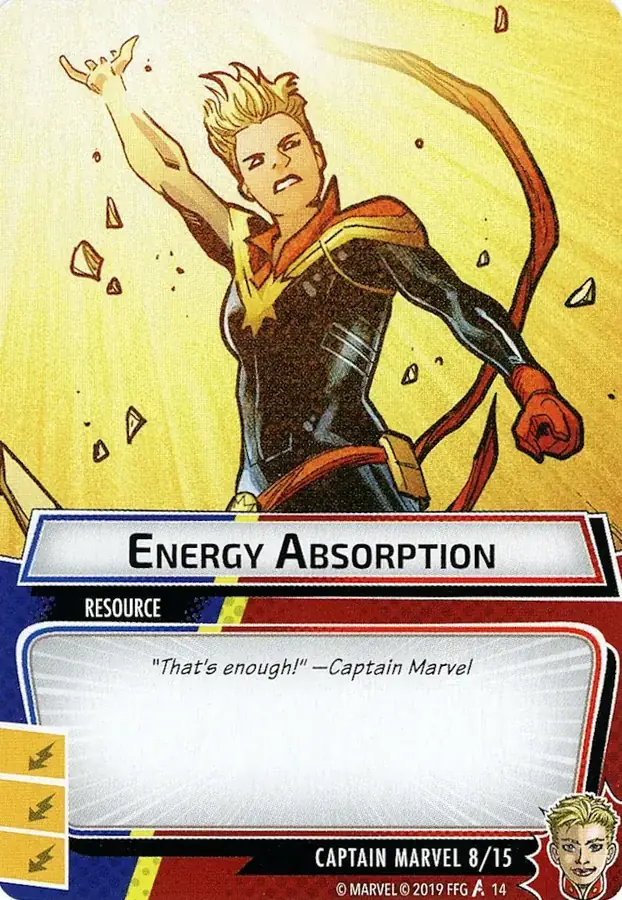
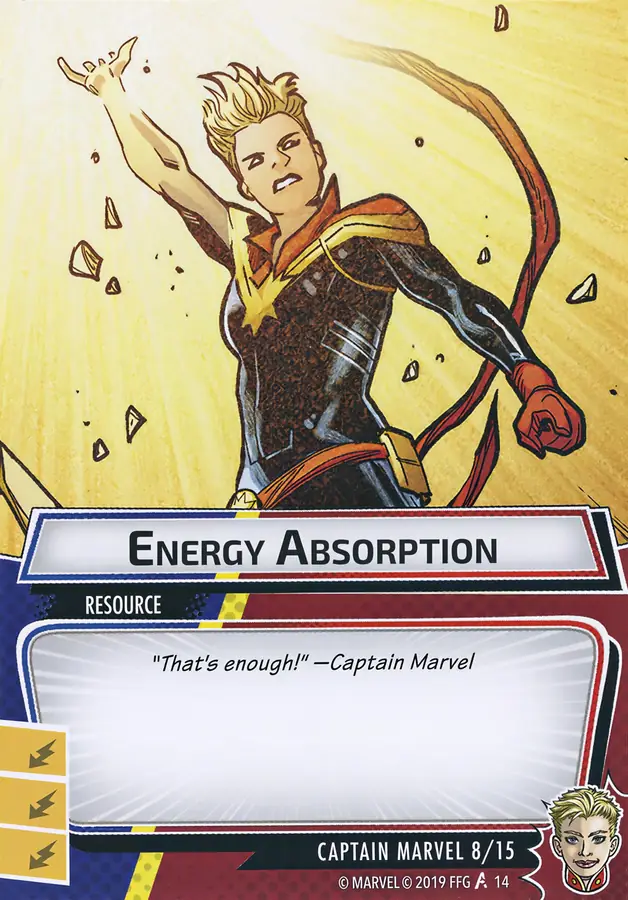
Use the owner's own scans for Spider-Man's and Captain Marvel's core cards (#485) (#487)
All 30 cards of both heroes' core decks and nemesis sets now use Quin's fresh scans: matched to their card by art (one batch labels Photonic Blast as Energy Channel), side schemes turned to landscape, scaled to 900px and saved as WebP under the same paths. The scans are cut to the card edge already, so nothing is cropped.

scripts/fetch_card_art.py gains a reusable `scans` command for the rest of the core set: art matching against the existing scans with the file name as a cross-check, scanner-bed white cleared only where it is a wedge in a corner, a before/after sheet, and assets/card-art/owner-scans.tsv so `fetch` and `trim` never replace or crop an owner scan.

diff --git a/scripts/fetch_card_art.py b/scripts/fetch_card_art.py
@@ -13,7 +13,7 @@
 Card art upgrader: replaces scans in assets/card-art/bundles/cards/ with better
 copies from Hall of Heroes (hallofheroeslcg.com).
 
-Six commands:
+Seven commands:
 
   audit   Score every local scan for the Fantasy Flight Games diamond watermark
           (the "FF stamp" on the preview images some sets were first scanned
@@ -109,6 +109,20 @@ Six commands:
           no padding to remove. A second run downloads only what is new;
           `--refresh` downloads everything again.
 
+  scans   (`uv run scripts/fetch_card_art.py scans <folder>... --packs core`)
+          Replaces local scans with the owner's own scans (TIFF from the
+          scanner, or any image). Each scan is matched to a card by its art
+          against the existing local scans of `--packs`, not by its file name,
+          which can be wrong; a name that disagrees is reported. A sideways
+          card scanned upright is turned to its local scan's orientation, white
+          scanner bed at a corner is made transparent (nothing else is cropped:
+          the scans are cut to the card edge already), and the result is scaled
+          and encoded as `compress` does. Copies of one card save the closest
+          match. `--sheet` writes a before/after contact sheet for the PR.
+          Each saved card is listed in assets/card-art/owner-scans.tsv, which
+          `fetch` and `trim` then leave alone, and loses its Hall of Heroes
+          manifest row. Offline.
+
 A replacement or an addition keeps the exact local path a card record names
 (`/bundles/cards/<code>.png` or `.jpg`), since that is what `imageRef()` points
 at. Each one is recorded in assets/card-art/hall-of-heroes-manifest.tsv.
@@ -125,6 +139,7 @@ at. Each one is recorded in assets/card-art/hall-of-heroes-manifest.tsv.
   uv run scripts/fetch_card_art.py missing --dry-run -v
   uv run scripts/fetch_card_art.py compress --dry-run
   uv run scripts/fetch_card_art.py localize --lang es --dry-run
+  uv run scripts/fetch_card_art.py scans "~/Scans/3. Spider Man" --packs core --recursive --dry-run
 """
 
 from __future__ import annotations
@@ -152,6 +167,7 @@ from scipy.optimize import linear_sum_assignment
 REPO_ROOT = Path(__file__).resolve().parent.parent
 CARDS_DIR = REPO_ROOT / "assets" / "card-art" / "bundles" / "cards"
 MANIFEST = REPO_ROOT / "assets" / "card-art" / "hall-of-heroes-manifest.tsv"
+OWNER_SCANS = REPO_ROOT / "assets" / "card-art" / "owner-scans.tsv"
 RAW_DIR = REPO_ROOT / "packages" / "content" / "raw" / "marvelcdb"
 TEMPLATE_DIR = Path(__file__).resolve().parent / "card-art"
 
@@ -480,6 +496,18 @@ def self_test() -> None:
     holed = np.array(trim(card(False))[0])
     holed[300:380, 100:300, 3] = 0
     assert interior_transparency(Image.fromarray(holed, "RGBA")) > INTERIOR_MAX, "interior hole not detected"
+
+    # An owner scan: scanner bed in the top-left corner, a white wall running into the top-right one.
+    scan = Image.new("RGB", (500, 700), (120, 30, 40))
+    d = ImageDraw.Draw(scan)
+    d.polygon([(0, 0), (12, 0), (0, 12)], fill=(252, 252, 252))
+    d.rectangle((420, 0, 499, 200), fill=(250, 250, 250))
+    cleared, n = clear_white_corners(scan)
+    a = np.asarray(cleared)[..., 3]
+    assert n and a[0, 0] == 0 and a[20, 20] == 255, "scanner bed in a corner not cleared"
+    assert a[0, -1] == 255 and a[5, -5] == 255, "white art reaching a corner was cleared"
+    cream = Image.new("RGB", (500, 700), (230, 228, 215))
+    assert clear_white_corners(cream)[1] == 0, "cream paper taken for scanner bed"
     print("self-test passed")
 
 
@@ -863,6 +891,27 @@ def read_manifest() -> tuple[list[str], dict[str, list[str]]]:
     return header, rows
 
 
+def read_owner_scans() -> dict[str, list[str]]:
+    """The cards whose local scan is the owner's own (`scans`), by code. `fetch` and `trim` leave these alone."""
+    rows = {}
+    if OWNER_SCANS.exists():
+        for line in OWNER_SCANS.read_text(encoding="utf-8").splitlines():
+            if line.strip() and not line.startswith("#") and not line.startswith("code\t"):
+                cols = line.split("\t")
+                rows[cols[0]] = cols
+    return rows
+
+
+def write_owner_scans(rows: dict[str, list[str]]) -> None:
+    lines = [
+        "# Cards whose bundled scan is the owner's own, saved by `scripts/fetch_card_art.py scans`. `fetch` never",
+        "# replaces these with a Hall of Heroes copy, and `trim` never crops them (they are cut to the card edge).",
+        "code\tpack\tname\tscan\tsaved",
+    ]
+    lines += ["\t".join(rows[code]) for code in sorted(rows)]
+    OWNER_SCANS.write_text("\n".join(lines) + "\n", encoding="utf-8", newline="\n")
+
+
 def write_manifest(rows: dict[str, list[str]]) -> None:
     lines = [
         "# Card images fetched from Hall of Heroes (hallofheroeslcg.com) by scripts/fetch_card_art.py: scans MarvelCDB",
@@ -875,7 +924,7 @@ def write_manifest(rows: dict[str, list[str]]) -> None:
     for code in sorted(rows):
         cols = rows[code] + [""] * (6 - len(rows[code]))
         lines.append("\t".join(cols[:6]))
-    MANIFEST.write_text("\n".join(lines) + "\n", encoding="utf-8")
+    MANIFEST.write_text("\n".join(lines) + "\n", encoding="utf-8", newline="\n")
 
 
 # --------------------------------------------------------------------------- commands
@@ -944,7 +993,11 @@ def fetch(args: argparse.Namespace) -> None:
                     small_codes.add(code)
         print(f"    {len(small_codes)} local scans with a long edge of {args.max_local_edge}px or less")
 
+    owner = read_owner_scans()
+
     def targeted(code: str) -> bool:
+        if code in owner:
+            return False
         if args.stamped_only and code not in stamped_codes:
             return False
         return small_codes is None or code in small_codes
@@ -1281,7 +1334,10 @@ def _fetch_one(
 def trim_local(args: argparse.Namespace) -> None:
     """Crops white padding off the local scans in place (the photographed ones carry it)."""
     changed = 0
+    owner = read_owner_scans()
     for code, path in local_scans().items():
+        if code in owner:
+            continue
         with Image.open(path) as img:
             img.load()
         trimmed = trim(img)
@@ -1338,6 +1394,216 @@ def compress(args: argparse.Namespace) -> None:
                 path.write_bytes(webp)
     verb = "would be " if args.dry_run else ""
     print(f"\n[=] {converted} scans {verb}converted: {before / 1e6:.1f} MB -> {after / 1e6:.1f} MB")
+
+
+# --------------------------------------------------------------------------- owner scans
+
+SCAN_SUFFIXES = (".tif", ".tiff", ".png", ".jpg", ".jpeg", ".webp")
+# A white speck at a scan's corner is the scanner bed showing past the card's rounded edge; only light pixels joined to
+# the corner inside a square of this fraction of the short side are cleared, so white art near a corner is untouched.
+SCAN_CORNER = 0.06
+# Scanner-bed white is brighter and more neutral than any printed white: the card's cream paper, a pale sky, measure
+# 215-235 on their darkest channel on the owner's scans, the bed 245 and up. `PAD_WHITE` (web images) would take both.
+SCAN_WHITE = 245
+
+
+def flat_grey(img: Image.Image) -> Image.Image:
+    """`img` on mid grey, so a trimmed scan's transparent corners hash the same whatever RGB they happen to hold."""
+    if "A" not in img.getbands():
+        return img.convert("RGB")
+    base = Image.new("RGB", img.size, (128, 128, 128))
+    base.paste(img.convert("RGBA"), mask=img.convert("RGBA").getchannel("A"))
+    return base
+
+
+def scan_name(path: Path) -> str:
+    """The card name in an owner scan's file name, `<n>_<Name>_<Type>[_A|_B].tif` (`_s` stands for `'s`)."""
+    parts = path.stem.split("_")
+    if len(parts) >= 3 and parts[0].isdigit():
+        parts = parts[1:-1]
+        if parts and parts[-1].lower() in ("hero", "alter-ego", "a", "b"):
+            parts = parts[:-1]
+    return "_".join(parts).replace("_s", "s").replace("_", " ")
+
+
+def names_agree(a: str, b: str) -> bool:
+    """Whether a scan's file name names card `b`: one contains the other (`Absorption`), or a typo away (`Tracker`)."""
+    from difflib import SequenceMatcher
+
+    norm = lambda s: re.sub(r"[^a-z0-9]", "", s.lower())  # noqa: E731
+    a, b = norm(a), norm(b)
+    return bool(a and b) and (a in b or b in a or SequenceMatcher(None, a, b).ratio() >= 0.9)
+
+
+def clear_white_corners(img: Image.Image) -> tuple[Image.Image, int]:
+    """
+    Makes the scanner-bed white at a scan's four corners transparent: light pixels flood-filled from each corner pixel,
+    within a corner square only (`SCAN_CORNER`) and only where they stay a wedge in that corner, grown by one pixel to
+    take the light fringe with them. Returns the
+    image (RGBA when anything was cleared, otherwise unchanged) and the number of pixels cleared.
+    """
+    rgb = np.asarray(img.convert("RGB")).astype(np.int16)
+    h, w = rgb.shape[:2]
+    k = max(4, round(SCAN_CORNER * min(h, w)))
+    light = (rgb.min(axis=2) >= SCAN_WHITE) & (np.ptp(rgb, axis=2) <= 12)
+    clear = np.zeros((h, w), bool)
+    for ys, xs, (cy, cx) in (
+        (slice(0, k), slice(0, k), (0, 0)),
+        (slice(0, k), slice(w - k, w), (0, k - 1)),
+        (slice(h - k, h), slice(0, k), (k - 1, 0)),
+        (slice(h - k, h), slice(w - k, w), (k - 1, k - 1)),
+    ):
+        square = light[ys, xs]
+        if not square[cy, cx]:
+            continue
+        labels, _ = ndimage.label(square)
+        corner = labels == labels[cy, cx]
+        # Scanner bed past a rounded corner is a small wedge in the corner. Light art that reaches the corner (a white
+        # wall, a pale sky) runs on across the square to its far side, and is left alone.
+        if corner[k - 1 - cy].any() or corner[:, k - 1 - cx].any():
+            continue
+        clear[ys, xs] |= ndimage.binary_dilation(corner)
+    cleared = int(clear.sum())
+    if not cleared:
+        return img, 0
+    rgba = np.array(img.convert("RGBA"))
+    rgba[..., 3] = np.where(clear, 0, rgba[..., 3])
+    return Image.fromarray(rgba, "RGBA"), cleared
+
+
+@dataclass
+class ScanMatch:
+    path: Path
+    code: str  # the nearest local scan, whether or not the match is confident
+    turn: int  # degrees counter-clockwise (PIL `rotate`) that put the scan in the local scan's orientation
+    dist: int
+    runner_up: int
+
+
+def match_scan(path: Path, local: dict[str, tuple[int, bool]]) -> ScanMatch:
+    """
+    The local card code an owner scan shows, by art: the local scan whose hash is nearest the scan's, turned to the
+    local scan's orientation (a side scheme scanned upright is tried both ways round), with the distance to the
+    next-nearest card for the caller's confidence check (`scans`).
+    """
+    with Image.open(path) as raw:
+        img = raw.convert("RGB")
+    img.thumbnail((256, 256))
+    portrait = img.height >= img.width
+    hashes = {turn: phash(img.rotate(turn, expand=True)) for turn in (0, 90, 270)}
+    scored = []
+    for code, (h, local_portrait) in local.items():
+        turns = (0,) if local_portrait == portrait else (90, 270)
+        scored.append(min((hamming(hashes[t], h), t, code) for t in turns))
+    scored.sort()
+    best, turn, code = scored[0]
+    runner_up = next((d for d, _, c in scored[1:] if c != code), 64)
+    return ScanMatch(path, code, turn, best, runner_up)
+
+
+def _local_hash(path: Path) -> tuple[int, bool]:
+    with Image.open(path) as img:
+        img.load()
+    return phash(flat_grey(img)), img.height >= img.width
+
+
+def scans(args: argparse.Namespace) -> None:
+    """
+    Replaces local scans with the owner's own scans. Each image in the given folders is matched to a card by art
+    against the existing local scans of `--packs` (not by its file name, which can be wrong: a batch has labelled
+    Photonic Blast as Energy Channel), turned to that scan's orientation, given transparent corners where the
+    scanner bed shows white, scaled to `MAX_EDGE` and saved as WebP under the local scan's own path. Several scans
+    of one card (its copies) save the closest match. A file name that disagrees with the matched card is reported.
+    """
+    cards = load_cards()
+    local = {
+        code: path
+        for code, path in local_scans().items()
+        if not args.packs or pack_of(code, cards) in args.packs
+    }
+    if not local:
+        sys.exit(f"no local scans in packs {args.packs}")
+    with ProcessPoolExecutor() as pool:
+        hashes = dict(zip(local, pool.map(_local_hash, local.values(), chunksize=16)))
+    files = []
+    for folder in args.folders:
+        folder = Path(folder)
+        found = folder.rglob("*") if args.recursive else folder.iterdir()
+        files += sorted(p for p in found if p.is_file() and p.suffix.lower() in SCAN_SUFFIXES)
+    print(f"[*] matching {len(files)} scans against {len(local)} local scans in {args.packs or 'every pack'}")
+    with ProcessPoolExecutor() as pool:
+        matches = list(pool.map(match_scan, files, [hashes] * len(files)))
+
+    best: dict[str, ScanMatch] = {}
+    for m in matches:
+        rel = f"{m.path.parent.name}/{m.path.name}"
+        card = card_for(m.code, cards)
+        name = card.name if card else "?"
+        # A double-sided card's scans are named after either face.
+        faces = [c.name for f in "ab" if (c := cards.get(m.code[:5] + f))] if m.code[5:] in ("a", "b") else [name]
+        named = any(names_agree(scan_name(m.path), face) for face in faces)
+        # The art alone settles a match that clears `HASH_MARGIN`, as in `match_by_art`. One that doesn't (a card
+        # whose art is close to another's at hash size) is still taken when its file name names the same card.
+        if m.dist > HASH_MAX_DISTANCE or (m.runner_up - m.dist < HASH_MARGIN and not named):
+            print(f"    ? {rel}: no confident match (nearest {m.code} {name} at {m.dist}, next {m.runner_up})")
+            continue
+        note = "" if named else f"  <- file says {scan_name(m.path)!r}"
+        if m.runner_up - m.dist < HASH_MARGIN:
+            note += "  (close art; confirmed by file name)"
+        turned = f", turned {m.turn}" if m.turn else ""
+        print(f"    {m.code:>7} {name}: {rel} (distance {m.dist}, next {m.runner_up}{turned}){note}")
+        if m.code not in best or m.dist < best[m.code].dist:
+            best[m.code] = m
+
+    # The owner's scan replaces any Hall of Heroes copy, so its manifest row goes and `owner-scans.tsv` records it.
+    owner, (_, manifest), today = read_owner_scans(), read_manifest(), date.today().isoformat()
+    before: list[tuple[str, Image.Image]] = []
+    after: list[tuple[str, Image.Image]] = []
+    for code, m in sorted(best.items()):
+        with Image.open(m.path) as raw:
+            img = raw.convert("RGB")
+        if m.turn:
+            img = img.rotate(m.turn, expand=True)
+        img, cleared = clear_white_corners(img)
+        if cleared and args.verbose:
+            print(f"    {code}: cleared {cleared} white corner pixels")
+        dest = local[code]
+        if args.sheet:
+            with Image.open(dest) as old:
+                old.load()
+            before.append((code, old))
+            after.append((code, img))
+        if not args.dry_run:
+            save_like(img, dest)
+            card = card_for(code, cards)
+            owner[code] = [code, pack_of(code, cards), card.name if card else "?", m.path.name, today]
+            manifest.pop(code, None)
+    if not args.dry_run and best:
+        write_owner_scans(owner)
+        write_manifest(manifest)
+    print(f"\n[=] {len(best)} scans {'would be ' if args.dry_run else ''}replaced")
+    if args.sheet:
+        scan_sheet(before, after, Path(args.sheet))
+        print(f"[=] before/after sheet: {args.sheet}")
+
+
+def scan_sheet(before: list[tuple[str, Image.Image]], after: list[tuple[str, Image.Image]], out: Path) -> None:
+    """A before/after contact sheet for a PR: each card's old scan above its new one, on a dark ground."""
+    from PIL import ImageDraw
+
+    cell, cols = 220, 8
+    rows = (len(before) + cols - 1) // cols
+    sheet = Image.new("RGB", (cols * cell, rows * (2 * cell + 24)), (40, 40, 48))
+    draw = ImageDraw.Draw(sheet)
+    for i, ((code, old), (_, new)) in enumerate(zip(before, after)):
+        x, y = (i % cols) * cell, (i // cols) * (2 * cell + 24)
+        for j, img in enumerate((old, new)):
+            thumb = img.convert("RGBA")
+            thumb.thumbnail((cell - 10, cell - 10), Image.Resampling.LANCZOS)
+            sheet.paste(thumb, (x + (cell - thumb.width) // 2, y + 18 + j * cell), thumb)
+        draw.text((x + 6, y + 3), f"{code}  before / after", fill=(230, 230, 230))
+    out.parent.mkdir(parents=True, exist_ok=True)
+    sheet.save(out, quality=85)
 
 
 BASE_CODE = re.compile(r"^(\d{5})")
@@ -1617,6 +1883,13 @@ def main() -> None:
     lo.add_argument("--lang", required=True, choices=sorted(LOCALE_SOURCES), help="language code")
     lo.add_argument("--refresh", action="store_true", help="download every scan again, not only new ones")
     lo.add_argument("--dry-run", action="store_true", help="report the pairing without writing the set")
+    sc = sub.add_parser("scans", help="replace local scans with the owner's own scans, matched by art")
+    sc.add_argument("folders", nargs="+", help="folders of scans (TIFF, PNG, JPEG or WebP)")
+    sc.add_argument("--packs", nargs="+", help="MarvelCDB pack codes the scans belong to (default: every pack)")
+    sc.add_argument("--recursive", action="store_true", help="also read the folders' subfolders")
+    sc.add_argument("--sheet", metavar="PATH", help="also write a before/after contact sheet here (JPEG)")
+    sc.add_argument("--dry-run", action="store_true", help="report the matches without writing")
+    sc.add_argument("-v", "--verbose", action="store_true")
     args = parser.parse_args()
     if args.self_test:
         self_test()
@@ -1631,6 +1904,7 @@ def main() -> None:
         "missing": missing,
         "compress": compress,
         "localize": localize,
+        "scans": scans,
     }
     commands[args.command](args)
 
